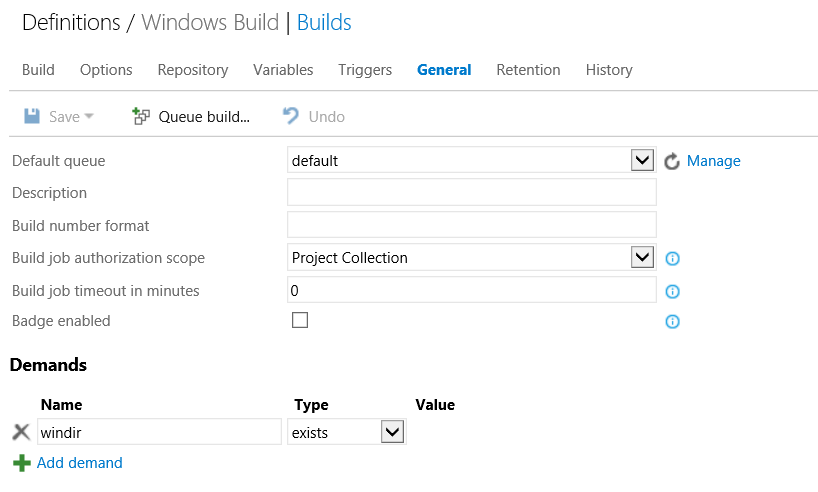
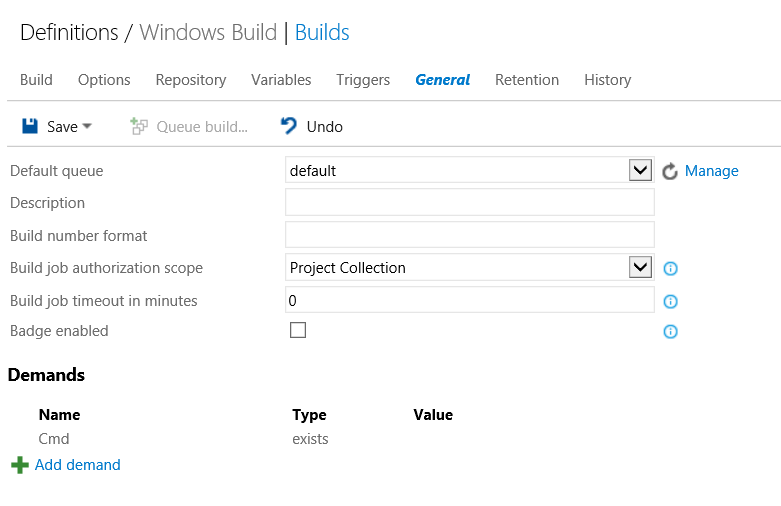
Switched from "windir" to "Cmd" as a demand in the team build tutorial for TFS 2015

diff --git a/tutorial-team-build/TFS2015RC/TFS2015.md b/tutorial-team-build/TFS2015RC/TFS2015.md
@@ -1,9 +1,11 @@
-#Using Tools for Apache Cordova with Team Foundation Services 2015 RC
+#Using Tools for Apache Cordova with Visual Studio Online and Team Foundation Services 2015 (RC)
 **This tutorial is part of a [series of tutorials](http://go.microsoft.com/fwlink/?LinkID=533743) on building Visual Studio 2015 Tools for Apache Cordova projects in a Team / CI environment and does not apply to Visual Studio 2013 CTPs.**
 
 Tools for Apache Cordova is designed to work with a number of different team build systems since the projects it creates are standard [Apache Cordova Command Line interface](http://go.microsoft.com/fwlink/?LinkID=533773) (CLI) projects. Team Foundation Services 2015 provides a new [cross-platform agent](http://go.microsoft.com/fwlink/?LinkID=533789) and [Gulp](http://go.microsoft.com/fwlink/?LinkID=533742lp) based build capabilities that enables TFS to build directly on Windows or OSX which is a critical capability Cordova based development. In addition, Gulp also enables you to easily add in a large number of "[plugins](http://go.microsoft.com/fwlink/?LinkID=533790)" to perform useful build tasks in environments that you do not control directly like Visual Studio Online.
 
 For these reasons, this tutorial will focus on the use of the cross-platform agent and Gulp rather than MSBuild as the primary build language for Cordova apps. If you still need to use the legacy XAML / MSBuild based approach, see the [TFS 2013](http://go.microsoft.com/fwlink/?LinkID=533770) tutorial for details on setup. The instructions generally still apply to TFS 2015.
+
+**Troubleshooting Tip: Be aware that a bug in VS templates in VS 2015 RC included four json files that can cause issues if added to source control: plugins/android.json, plugins/remote_ios.json, plugins/windows.json, and plugins/wp8.json.** Adding these files to source control can result in a build that appears to succeed but is missing plugin native code. They should only be included if the "platforms" folder is also checked in which is not recommended. Simply remove these files from source control to resolve the issue.
 
 ##Initial Setup
 Since the build process we will describe here is not directly dependent on MSBuild or Visual Studio for Android, you have two options for installing pre-requisites on Windows:
@@ -103,7 +105,7 @@ Detailed instructions on creating build definitions in TFS 2015 can be found in 
 
 	![Windows Build Definition - gulp](<media/tfs2015-2.png>)
 
-5.  Next we need to ensure that this particular build runs on Windows rather than OSX. Under the "General" tab, add a demand that "windir" exists.
+5.  Next we need to ensure that this particular build runs on Windows rather than OSX. Under the "General" tab, verify a demand that "Cmd" exists is present. If not, add one.
 
 	![Windows Build Definition - Demand](<media/tfs2015-3.png>)
 
@@ -170,7 +172,7 @@ Now let's create a version of this same build definition to target iOS that will
 
    ![OSX Build Definition - Update npm install](<media/tfs2015-6.png>)
 
-3.  Now we need to add a demand that will route builds to OSX machines rather than Windows. Under the "General" tab, remove the "windir" demand and add a demand that "xcode" exists.
+3.  Now we need to add a demand that will route builds to OSX machines rather than Windows. Under the "General" tab, remove the "Cmd" demand if present and add a demand that "xcode" exists.
 
 	![OSX Build Definition - Demand](<media/tfs2015-5.png>)
 

diff --git a/tutorial-team-build/TFS2015.md b/tutorial-team-build/TFS2015.md
@@ -97,7 +97,7 @@ Detailed instructions on creating build definitions in TFS 2015 can be found in 
 
 	![Windows Build Definition - gulp](<media/tfs2015-2.png>)
 
-5.  Next we need to ensure that this particular build runs on Windows rather than OSX. Under the "General" tab, add a demand that "windir" exists.
+5.  Next we need to ensure that this particular build runs on Windows rather than OSX. Under the "General" tab, add a demand that "Cmd" exists.
 
 	![Windows Build Definition - Demand](<media/tfs2015-3.png>)
 
@@ -121,7 +121,7 @@ Now let's create a version of this same build definition to target iOS that will
 
 1. Right click on the Windows build definition and select "Clone." Once you save you should give this definition a name that indicates it's the OSX build.
 
-2.  Now we need to add a demand that will route builds to OSX machines rather than Windows. Under the "General" tab, remove the "windir" demand and add a demand that "xcode" exists.
+2.  Now we need to add a demand that will route builds to OSX machines rather than Windows. Under the "General" tab, remove the "Cmd" demand and add a demand that "xcode" exists.
 
 	![OSX Build Definition - Demand](<media/tfs2015-5.png>)
 
